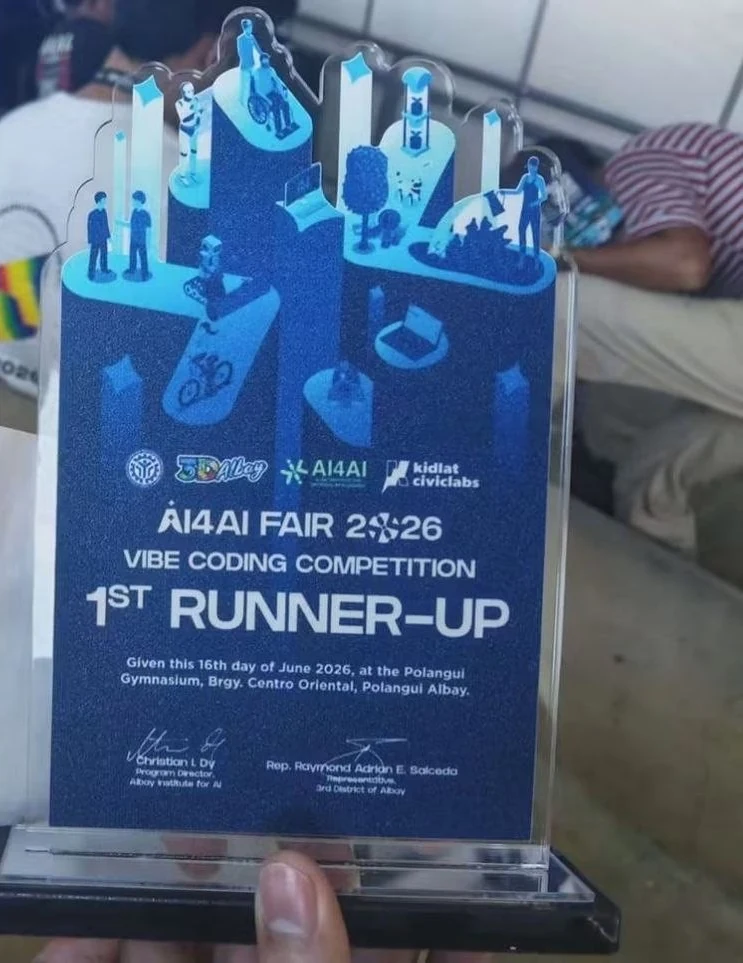
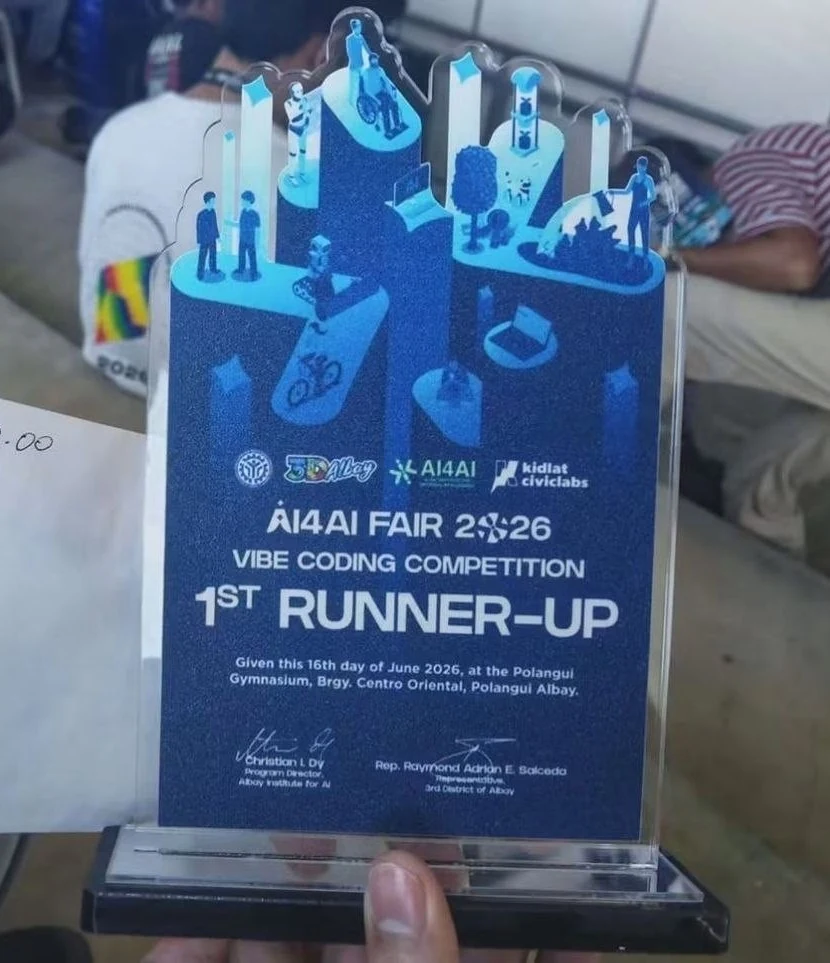
Drop the hover ring, make only the certificate image clickable, new trophy photo
The inset light ring I had added as a still hover cue read as a stray white
box around the frame, since --ink is near-white in dark mode. Hover now draws
nothing; keyboard focus keeps its ring.

An internship certificate's control was the whole <figure>, which also holds
the caption, so the caption text was inside the button and clickable. The
control is now the <img> itself: the caption is plain text again.

The AI4AI trophy slide uses the sharper photo, at 830x963 rather than the
743x963 crop.

diff --git a/js/main.js b/js/main.js
@@ -471,27 +471,29 @@
             }
           ],
           0,
-          byPointer ? null : figure,
+          byPointer ? null : img,
           { title: img.getAttribute("alt") || "" }
         );
       }
       // Only a thumbnail that actually loaded becomes a control; the ones
       // still waiting on a file keep their halftone placeholder, inert.
+      // The control is the image, not the whole figure: the figure also holds
+      // the caption, and making that clickable put a button around the text.
       var byPointer = false;
       function activate() {
         if (!img.naturalWidth) return;
-        figure.classList.add("thumb--zoomable");
-        figure.setAttribute("tabindex", "0");
-        figure.setAttribute("role", "button");
-        figure.setAttribute("aria-label", "Enlarge: " + (img.getAttribute("alt") || "certificate"));
-        figure.addEventListener("pointerdown", function () {
+        img.classList.add("thumb--zoomable");
+        img.setAttribute("tabindex", "0");
+        img.setAttribute("role", "button");
+        img.setAttribute("aria-label", "Enlarge: " + (img.getAttribute("alt") || "certificate"));
+        img.addEventListener("pointerdown", function () {
           byPointer = true;
         });
-        figure.addEventListener("blur", function () {
+        img.addEventListener("blur", function () {
           byPointer = false;
         });
-        figure.addEventListener("click", openThis);
-        figure.addEventListener("keydown", function (e) {
+        img.addEventListener("click", openThis);
+        img.addEventListener("keydown", function (e) {
           if (e.key === "Enter" || e.key === " ") {
             e.preventDefault();
             openThis();

diff --git a/css/styles.css b/css/styles.css
@@ -1564,12 +1564,9 @@ a.ext:hover::after {
 }
 
 
-/* Hover and focus read as a still outline drawn inside the frame. */
-.carousel__zoom:hover,
-.carousel__zoom:focus-visible {
-  box-shadow: inset 0 0 0 2px rgb(var(--ink) / 0.35);
-}
-.thumb--zoomable:hover,
+/* Keyboard focus still needs a visible ring, but hover must not draw one:
+   an inset light border around the whole frame read as a stray white box. */
+.carousel__zoom:focus-visible,
 .thumb--zoomable:focus-visible {
   box-shadow: inset 0 0 0 2px rgb(var(--ink) / 0.35);
 }

diff --git a/js/images.js b/js/images.js
@@ -237,7 +237,7 @@ var IMAGES = {
         },
         {
           src: "assets/images/achievements/ai4ai-2026/02-first-runner-up-trophy.webp",
-          w: 743,
+          w: 830,
           h: 963,
           alt: "The clear acrylic 1st runner-up trophy held in one hand, etched with the AI4AI Fair 2026 Vibe Coding Competition award and date.",
           caption: "The 1st Runner-up trophy"
